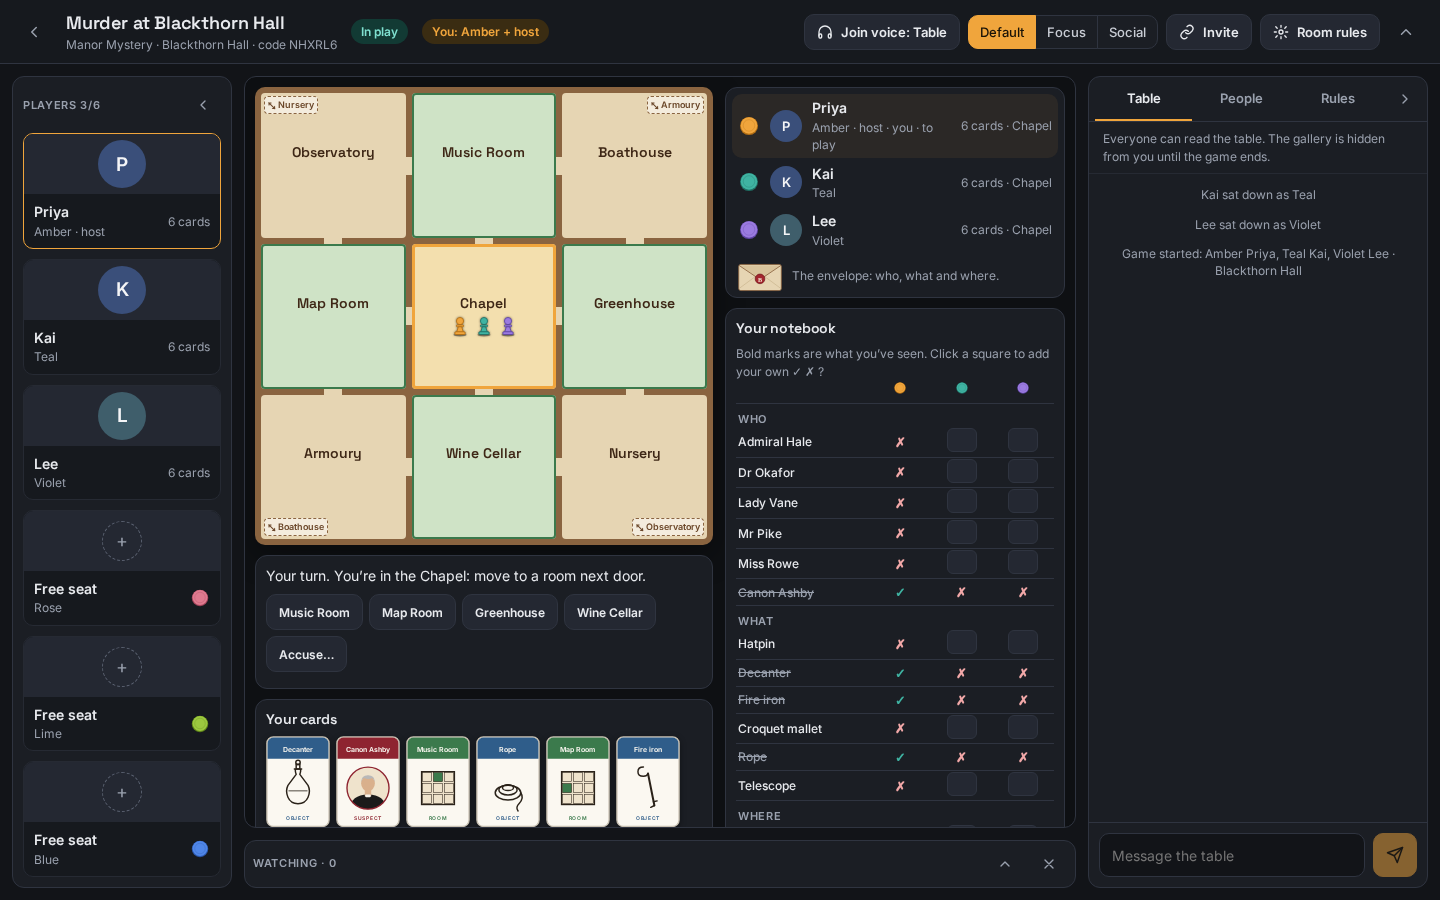
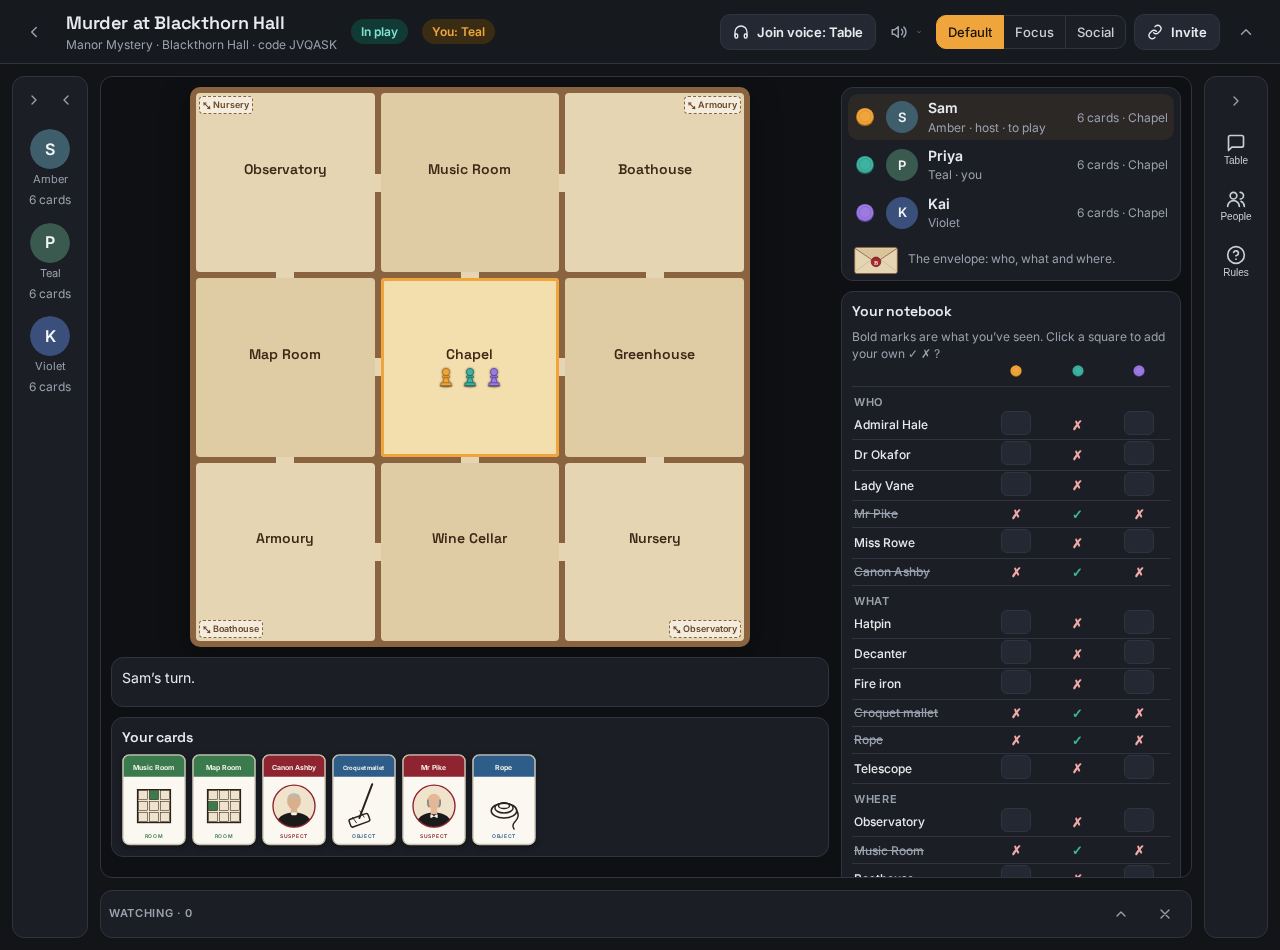
Playhall: new Realm Duel and Manor Mystery screenshots

diff --git a/playhall/README.md b/playhall/README.md
@@ -105,11 +105,11 @@ The five ships are drawn for Playhall: a carrier with its flight deck, a battles
 
 **Realm Duel** is a two-player creature card duel. Each player holds three creatures, each with its own strengths, an element and an ability. Every round both players secretly pick a creature and how it attacks (melee, ranged or magic), then both are revealed together: the quicker creature strikes first, elements beat one another in a cycle, and poison, stuns and shields carry over. The last player with creatures standing wins. The creature stats were balanced by simulating 20,000 games.
 
-![Realm Duel: Kai's three violet card backs and "Locked in" at the top, and Priya's Duskmaw, Stonehorn and Tidecaller with their stats and health, the Melee, Ranged and Magic buttons, and Lock in](images/25-realm-duel.png)
+![Realm Duel against a computer player, round 3: the bot's Lumen Stag and two face-down cards with "Locked in" at the top, last round's fight (Sam's Stonehorn hit for 12, the Stag for 10) in the middle, and Sam's Stonehorn, Emberfox and Duskmaw with their stats and health, the Melee, Ranged and Magic buttons, and Lock in](images/25-realm-duel.png)
 
 **Manor Mystery** is a murder at Blackthorn Hall for three to six players, with its own cast, objects and rooms. One suspect, object and room are sealed in an envelope. You move through the hall, suggest who did it, with what, in the room you're in, and the players after you must secretly show you one card that proves you wrong. Your notebook fills in what you've learned for certain and keeps your own marks. Accuse when you're sure: right wins, wrong puts you out, and if nobody solves it, nobody scores.
 
-![Manor Mystery: the plan of Blackthorn Hall with three tokens in the Chapel and the hidden passages marked, the move buttons, Priya's six cards, the envelope, and her notebook with what she knows already filled in](images/26-manor-mystery.png)
+![Manor Mystery from Priya's seat at the start: the plan of Blackthorn Hall with three tokens in the Chapel and the hidden passages marked in the corners, Priya's six cards, the envelope, and her notebook with her own cards already crossed off](images/26-manor-mystery.png)
 
 **Ship2Shore** is our own hidden-role game for five to eleven players, set aboard the merchant ship SS Marigold in 1943. Everyone secretly belongs to the Royal Navy, the enemy spies or the black market, and each side is steering for a different port: Plymouth, a U-boat rendezvous, or Lisbon. Each round a captain picks a watch, course orders are passed along in secret, and the ship moves on the chart; the crew can mutiny, inspect each other, or throw a suspect to the sharks, which is exactly how the black market's fixer hopes to win. Roles stay hidden from everyone, watchers included, until the end.
 
